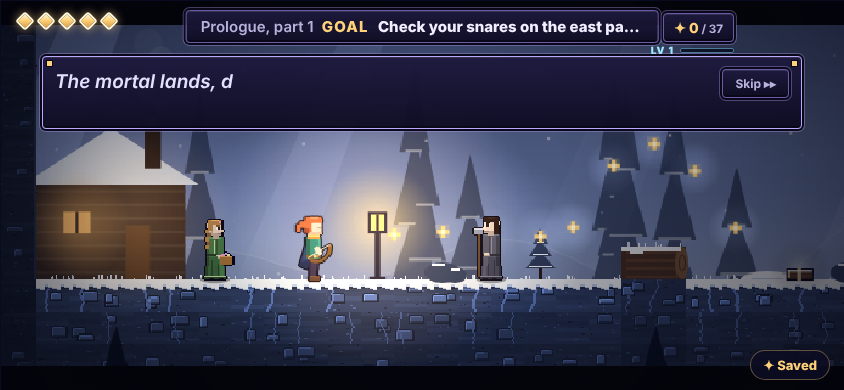
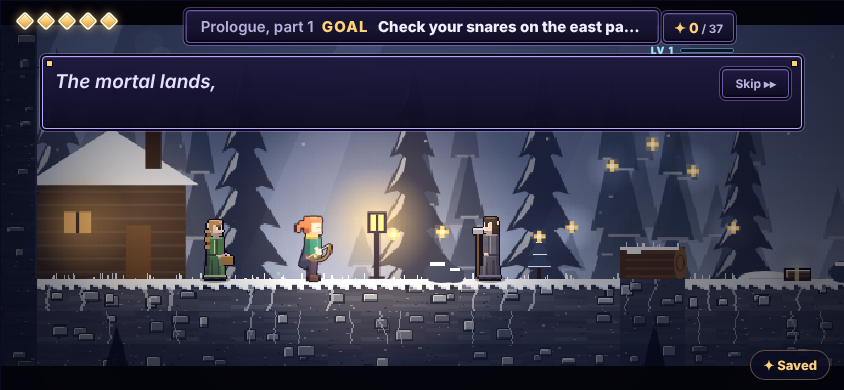
Starhaven Reimagined 11: atmospheric depth, hue-shifted ramps, form light
Backdrops gain two more depths with sky-coloured haze between layers and a
detailed near layer per theme. The shared shade function now shifts hue
(cool shadows, warm highlights). Wren and the cast get form lighting; the
ground is a step quieter than the characters.

Claude-Session: https://claude.ai/code/session_01PwDoV4SgoNJ5FnbkB1YJ2V

diff --git a/starhaven/game/starhaven.html b/starhaven/game/starhaven.html
@@ -4098,10 +4098,15 @@ h2 { letter-spacing: .12em; text-transform: uppercase; }
   const W = 32, H = 60, FX = 16, FY = 56;   // sheet cell; feet at (FX, FY)
   const cache = {};
   function canvas(w, h) { const c = document.createElement('canvas'); c.width = w; c.height = h; return c; }
+  // A hue-shifted ramp, as pixel artists build them: shadows are pulled toward a cool violet, highlights toward a
+  // warm cream, so a colour never just gets "more black" or "more white".
   function shade(hex, f) {
     const n = parseInt(hex.slice(1), 16); let r = n >> 16, g = n >> 8 & 255, b = n & 255;
-    r = Math.max(0, Math.min(255, Math.round(r * f))); g = Math.max(0, Math.min(255, Math.round(g * f))); b = Math.max(0, Math.min(255, Math.round(b * f)));
-    return '#' + ((1 << 24) | (r << 16) | (g << 8) | b).toString(16).slice(1);
+    r *= f; g *= f; b *= f;
+    if (f < 1) { const k = Math.min(0.5, (1 - f) * 0.55); r += (38 - r) * k; g += (30 - g) * k; b += (96 - b) * k; }
+    else if (f > 1) { const k = Math.min(0.45, (f - 1) * 0.5); r += (255 - r) * k; g += (238 - g) * k; b += (196 - b) * k; }
+    const c = v => Math.max(0, Math.min(255, Math.round(v)));
+    return '#' + ((1 << 24) | (c(r) << 16) | (c(g) << 8) | c(b)).toString(16).slice(1);
   }
   SH.shade = shade;
 
@@ -4199,6 +4204,9 @@ h2 { letter-spacing: .12em; text-transform: uppercase; }
     const L = LOOKS[id]; if (!L) return null;
     const c = canvas(W * 3, H), g = c.getContext('2d');
     for (let f = 0; f < 3; f++) { g.save(); g.translate(f * W, 0); drawBody(g, L, f); g.restore(); }
+    g.globalCompositeOperation = 'source-atop';
+    const lg = g.createLinearGradient(0, 4, 0, H); lg.addColorStop(0, 'rgba(255,240,205,0.20)'); lg.addColorStop(0.45, 'rgba(255,240,205,0)'); lg.addColorStop(1, 'rgba(24,16,70,0.30)'); g.fillStyle = lg; g.fillRect(0, 0, c.width, H);
+    g.globalCompositeOperation = 'source-over';
     outline(c, '#0a0818');
     return (cache[id] = c);
   }
@@ -4918,6 +4926,12 @@ h2 { letter-spacing: .12em; text-transform: uppercase; }
     if (name === 'cast') o.hand = fireHand(5);
     if (name === 'charge') o.hand = fireHand(3 + Math.min(6, p.chargeT / 6));
     figure(g, p, S, o);
+    if (!gh) {   // form light over the whole figure: warm from above, cool shadow toward her feet, a rim on her leading edge
+      g.setTransform(1, 0, 0, 1, 0, 0); g.globalCompositeOperation = 'source-atop';
+      const lg = g.createLinearGradient(0, OY - 46, 0, OY); lg.addColorStop(0, 'rgba(255,240,205,0.22)'); lg.addColorStop(0.5, 'rgba(255,240,205,0)'); lg.addColorStop(1, 'rgba(24,16,70,0.30)'); g.fillStyle = lg; g.fillRect(0, 0, cv.width, cv.height);
+      const rg = g.createLinearGradient(OX - 2, 0, OX + 12, 0); rg.addColorStop(0, 'rgba(200,214,255,0)'); rg.addColorStop(1, 'rgba(200,214,255,0.16)'); g.fillStyle = rg; g.fillRect(0, 0, cv.width, cv.height);
+      g.globalCompositeOperation = 'source-over';
+    }
 
     const m = mask.getContext('2d');
     m.globalCompositeOperation = 'source-over'; m.clearRect(0, 0, mask.width, mask.height); m.drawImage(cv, 0, 0);
@@ -5106,8 +5120,35 @@ h2 { letter-spacing: .12em; text-transform: uppercase; }
     g.fillStyle = gr; g.fillRect(0, 0, 16, 360);
     out.sky = s;
     out.far = T.far === 'cave' ? makeCave(T) : makeMountains(T);
+    out.near = makeNear(T, name);
     out.mid = T.mid === 'roots' ? makeRoots(T) : T.mid === 'spires' ? makeSpires(T) : T.mid === 'pines' ? makePines(T) : makeTrees(T);
     return out;
+  }
+  // The nearest background layer: things with real detail, just behind where Wren walks.
+  function makeNear(T, name) {
+    if (name === 'city') return null;
+    const w = 1100, h = 300, c = canvas(w, h), g = c.getContext('2d'), r = rng(name.length * 13 + 5);
+    const dark = SH.shade(T.midC, 0.75), lite = SH.shade(T.midC, 1.5);
+    for (let i = 0; i < 9; i++) {
+      const x = 50 + i * 122 + r() * 46;
+      if (name === 'deep') {   // pillars of rock with a lit edge, and roots hanging between them
+        const pw = 16 + r() * 14, top = 30 + r() * 60;
+        g.fillStyle = dark; g.fillRect(x, top, pw, h - top); g.beginPath(); g.moveTo(x - 6, h); g.lineTo(x + 2, top + 30); g.lineTo(x + pw - 2, top + 30); g.lineTo(x + pw + 8, h); g.fill();
+        g.fillStyle = lite; g.fillRect(x, top, 2, h - top); for (let k = 0; k < 6; k++) g.fillRect(x + 3 + r() * (pw - 6), top + 10 + r() * 200, 2, 1);
+        g.strokeStyle = dark; g.lineWidth = 2; g.beginPath(); g.moveTo(x + pw, 0); g.quadraticCurveTo(x + pw + 40, 70 + r() * 40, x + 122, 0); g.stroke();
+      } else if (name === 'thornwood') {   // twisted trunks with thorned branches
+        g.strokeStyle = dark; g.lineCap = 'round'; g.lineWidth = 9; g.beginPath(); g.moveTo(x, h); g.quadraticCurveTo(x + 14, h - 90, x - 6, h - 170); g.stroke();
+        for (let k = 0; k < 4; k++) { const by = h - 70 - k * 30, dir = k % 2 ? 1 : -1; g.lineWidth = 4; g.beginPath(); g.moveTo(x + 4, by); g.quadraticCurveTo(x + dir * 30, by - 20, x + dir * 52, by - 8 - r() * 20); g.stroke(); g.fillStyle = dark; for (let q = 0; q < 3; q++) { const tx = x + dir * (16 + q * 12), ty = by - 12 - q * 2; g.beginPath(); g.moveTo(tx - 2, ty); g.lineTo(tx, ty - 7); g.lineTo(tx + 2, ty); g.fill(); } }
+        g.strokeStyle = lite; g.lineWidth = 1; g.beginPath(); g.moveTo(x - 3, h); g.quadraticCurveTo(x + 10, h - 90, x - 9, h - 168); g.stroke();
+      } else {   // pines with a trunk, tiers of boughs, and snow or moonlight on each tier
+        const th = 150 + r() * 90, base = h;
+        g.fillStyle = SH.shade(T.midC, 0.6); g.fillRect(x - 3, base - th * 0.3, 6, th * 0.3);
+        for (let k = 0; k < 6; k++) { const ty = base - th * 0.22 - k * th * 0.13, tw = (34 - k * 4.6) * (th / 200);
+          g.fillStyle = dark; g.beginPath(); g.moveTo(x, ty - th * 0.2); g.lineTo(x - tw, ty); g.lineTo(x - tw * 0.55, ty - 3); g.lineTo(x, ty + 4); g.lineTo(x + tw * 0.55, ty - 3); g.lineTo(x + tw, ty); g.fill();
+          g.fillStyle = T.snow ? 'rgba(255,255,255,0.6)' : lite; g.beginPath(); g.moveTo(x, ty - th * 0.2); g.lineTo(x - tw * 0.8, ty - 3); g.lineTo(x - tw * 0.3, ty - th * 0.08); g.fill(); }
+      }
+    }
+    return c;
   }
   function makeStars() {
     const r = rng(7), out = [];
@@ -5222,7 +5263,7 @@ h2 { letter-spacing: .12em; text-transform: uppercase; }
   THEMES.winter.gstyle = 'earth'; THEMES.dusk.gstyle = 'earth'; THEMES.thornwood.gstyle = 'earth'; THEMES.deep.gstyle = 'rock'; THEMES.mountain.gstyle = 'strata'; THEMES.city.gstyle = 'brick';
   function groundTile(g, T, style, x, y, tx, ty, depth, TS) {
     const H = (a, b) => { let h = (tx * 73856093) ^ (ty * 19349663) ^ (a * 83492791) ^ ((b || 0) * 2654435761); h = (h ^ (h >>> 13)) * 1274126177; return ((h ^ (h >>> 16)) >>> 0) / 4294967296; };
-    const lift = [1.9, 1.5, 1.25, 1.1, 1][depth], base = SH.shade(T.speck, lift);
+    const lift = [1.42, 1.24, 1.12, 1.05, 1][depth], base = SH.shade(T.speck, lift);   // the ground stays a step quieter than the people on it
     if (style === 'brick') {   // two courses a tile, joints staggered, each stone lit top-left and dark bottom-right
       for (let row = 0; row < 2; row++) {
         const by = y + row * 12, off = ((ty * 2 + row) % 2) * 12 + ((tx * 7 + ty * 3) % 3) * 2;
@@ -5487,8 +5528,16 @@ h2 { letter-spacing: .12em; text-transform: uppercase; }
       ctx.globalAlpha = alpha;
     }
     if (w.room.def.cityGlowX != null) drawCity(ctx, w, vw, cx, cy);
+    // Depth by air: each layer further away loses contrast and takes the colour of the sky; nearer layers are
+    // darker, sharper and more detailed, and slide faster. (Atmospheric perspective + detail gradient + parallax.)
+    const haze = (a, y0) => { const hg = ctx.createLinearGradient(0, y0, 0, VH); hg.addColorStop(0, 'rgba(0,0,0,0)'); hg.addColorStop(0.55, T.sky[2]); hg.addColorStop(1, T.sky[3]); ctx.globalAlpha = alpha * a; ctx.fillStyle = hg; ctx.fillRect(0, 0, vw, VH); ctx.globalAlpha = alpha; };
     tile(ctx, L.far, cx * 0.12, 10 - cy * 0.08, vw);
-    ctx.globalAlpha = alpha * 0.85; tile(ctx, L.mid, cx * 0.38, 30 - cy * 0.3, vw); ctx.globalAlpha = alpha;
+    haze(0.5, 40);
+    ctx.globalAlpha = alpha * 0.6; tile(ctx, L.mid, cx * 0.2 + 370, 6 - cy * 0.16, vw); ctx.globalAlpha = alpha;   // the same wood again, further off
+    haze(0.42, 90);
+    ctx.globalAlpha = alpha * 0.9; tile(ctx, L.mid, cx * 0.38, 30 - cy * 0.3, vw); ctx.globalAlpha = alpha;
+    haze(0.2, 150);
+    if (L.near) tile(ctx, L.near, cx * 0.62, 78 - cy * 0.55, vw);
     const mist = ctx.createLinearGradient(0, 180 - cy * 0.3, 0, VH);
     mist.addColorStop(0, 'rgba(0,0,0,0)'); mist.addColorStop(1, T.mist);
     ctx.fillStyle = mist; ctx.fillRect(0, 0, vw, VH);

diff --git a/starhaven/game/src/draw.js b/starhaven/game/src/draw.js
@@ -127,8 +127,35 @@
     g.fillStyle = gr; g.fillRect(0, 0, 16, 360);
     out.sky = s;
     out.far = T.far === 'cave' ? makeCave(T) : makeMountains(T);
+    out.near = makeNear(T, name);
     out.mid = T.mid === 'roots' ? makeRoots(T) : T.mid === 'spires' ? makeSpires(T) : T.mid === 'pines' ? makePines(T) : makeTrees(T);
     return out;
+  }
+  // The nearest background layer: things with real detail, just behind where Wren walks.
+  function makeNear(T, name) {
+    if (name === 'city') return null;
+    const w = 1100, h = 300, c = canvas(w, h), g = c.getContext('2d'), r = rng(name.length * 13 + 5);
+    const dark = SH.shade(T.midC, 0.75), lite = SH.shade(T.midC, 1.5);
+    for (let i = 0; i < 9; i++) {
+      const x = 50 + i * 122 + r() * 46;
+      if (name === 'deep') {   // pillars of rock with a lit edge, and roots hanging between them
+        const pw = 16 + r() * 14, top = 30 + r() * 60;
+        g.fillStyle = dark; g.fillRect(x, top, pw, h - top); g.beginPath(); g.moveTo(x - 6, h); g.lineTo(x + 2, top + 30); g.lineTo(x + pw - 2, top + 30); g.lineTo(x + pw + 8, h); g.fill();
+        g.fillStyle = lite; g.fillRect(x, top, 2, h - top); for (let k = 0; k < 6; k++) g.fillRect(x + 3 + r() * (pw - 6), top + 10 + r() * 200, 2, 1);
+        g.strokeStyle = dark; g.lineWidth = 2; g.beginPath(); g.moveTo(x + pw, 0); g.quadraticCurveTo(x + pw + 40, 70 + r() * 40, x + 122, 0); g.stroke();
+      } else if (name === 'thornwood') {   // twisted trunks with thorned branches
+        g.strokeStyle = dark; g.lineCap = 'round'; g.lineWidth = 9; g.beginPath(); g.moveTo(x, h); g.quadraticCurveTo(x + 14, h - 90, x - 6, h - 170); g.stroke();
+        for (let k = 0; k < 4; k++) { const by = h - 70 - k * 30, dir = k % 2 ? 1 : -1; g.lineWidth = 4; g.beginPath(); g.moveTo(x + 4, by); g.quadraticCurveTo(x + dir * 30, by - 20, x + dir * 52, by - 8 - r() * 20); g.stroke(); g.fillStyle = dark; for (let q = 0; q < 3; q++) { const tx = x + dir * (16 + q * 12), ty = by - 12 - q * 2; g.beginPath(); g.moveTo(tx - 2, ty); g.lineTo(tx, ty - 7); g.lineTo(tx + 2, ty); g.fill(); } }
+        g.strokeStyle = lite; g.lineWidth = 1; g.beginPath(); g.moveTo(x - 3, h); g.quadraticCurveTo(x + 10, h - 90, x - 9, h - 168); g.stroke();
+      } else {   // pines with a trunk, tiers of boughs, and snow or moonlight on each tier
+        const th = 150 + r() * 90, base = h;
+        g.fillStyle = SH.shade(T.midC, 0.6); g.fillRect(x - 3, base - th * 0.3, 6, th * 0.3);
+        for (let k = 0; k < 6; k++) { const ty = base - th * 0.22 - k * th * 0.13, tw = (34 - k * 4.6) * (th / 200);
+          g.fillStyle = dark; g.beginPath(); g.moveTo(x, ty - th * 0.2); g.lineTo(x - tw, ty); g.lineTo(x - tw * 0.55, ty - 3); g.lineTo(x, ty + 4); g.lineTo(x + tw * 0.55, ty - 3); g.lineTo(x + tw, ty); g.fill();
+          g.fillStyle = T.snow ? 'rgba(255,255,255,0.6)' : lite; g.beginPath(); g.moveTo(x, ty - th * 0.2); g.lineTo(x - tw * 0.8, ty - 3); g.lineTo(x - tw * 0.3, ty - th * 0.08); g.fill(); }
+      }
+    }
+    return c;
   }
   function makeStars() {
     const r = rng(7), out = [];
@@ -243,7 +270,7 @@
   THEMES.winter.gstyle = 'earth'; THEMES.dusk.gstyle = 'earth'; THEMES.thornwood.gstyle = 'earth'; THEMES.deep.gstyle = 'rock'; THEMES.mountain.gstyle = 'strata'; THEMES.city.gstyle = 'brick';
   function groundTile(g, T, style, x, y, tx, ty, depth, TS) {
     const H = (a, b) => { let h = (tx * 73856093) ^ (ty * 19349663) ^ (a * 83492791) ^ ((b || 0) * 2654435761); h = (h ^ (h >>> 13)) * 1274126177; return ((h ^ (h >>> 16)) >>> 0) / 4294967296; };
-    const lift = [1.9, 1.5, 1.25, 1.1, 1][depth], base = SH.shade(T.speck, lift);
+    const lift = [1.42, 1.24, 1.12, 1.05, 1][depth], base = SH.shade(T.speck, lift);   // the ground stays a step quieter than the people on it
     if (style === 'brick') {   // two courses a tile, joints staggered, each stone lit top-left and dark bottom-right
       for (let row = 0; row < 2; row++) {
         const by = y + row * 12, off = ((ty * 2 + row) % 2) * 12 + ((tx * 7 + ty * 3) % 3) * 2;
@@ -508,8 +535,16 @@
       ctx.globalAlpha = alpha;
     }
     if (w.room.def.cityGlowX != null) drawCity(ctx, w, vw, cx, cy);
+    // Depth by air: each layer further away loses contrast and takes the colour of the sky; nearer layers are
+    // darker, sharper and more detailed, and slide faster. (Atmospheric perspective + detail gradient + parallax.)
+    const haze = (a, y0) => { const hg = ctx.createLinearGradient(0, y0, 0, VH); hg.addColorStop(0, 'rgba(0,0,0,0)'); hg.addColorStop(0.55, T.sky[2]); hg.addColorStop(1, T.sky[3]); ctx.globalAlpha = alpha * a; ctx.fillStyle = hg; ctx.fillRect(0, 0, vw, VH); ctx.globalAlpha = alpha; };
     tile(ctx, L.far, cx * 0.12, 10 - cy * 0.08, vw);
-    ctx.globalAlpha = alpha * 0.85; tile(ctx, L.mid, cx * 0.38, 30 - cy * 0.3, vw); ctx.globalAlpha = alpha;
+    haze(0.5, 40);
+    ctx.globalAlpha = alpha * 0.6; tile(ctx, L.mid, cx * 0.2 + 370, 6 - cy * 0.16, vw); ctx.globalAlpha = alpha;   // the same wood again, further off
+    haze(0.42, 90);
+    ctx.globalAlpha = alpha * 0.9; tile(ctx, L.mid, cx * 0.38, 30 - cy * 0.3, vw); ctx.globalAlpha = alpha;
+    haze(0.2, 150);
+    if (L.near) tile(ctx, L.near, cx * 0.62, 78 - cy * 0.55, vw);
     const mist = ctx.createLinearGradient(0, 180 - cy * 0.3, 0, VH);
     mist.addColorStop(0, 'rgba(0,0,0,0)'); mist.addColorStop(1, T.mist);
     ctx.fillStyle = mist; ctx.fillRect(0, 0, vw, VH);

diff --git a/starhaven/game/src/people.js b/starhaven/game/src/people.js
@@ -5,10 +5,15 @@
   const W = 32, H = 60, FX = 16, FY = 56;   // sheet cell; feet at (FX, FY)
   const cache = {};
   function canvas(w, h) { const c = document.createElement('canvas'); c.width = w; c.height = h; return c; }
+  // A hue-shifted ramp, as pixel artists build them: shadows are pulled toward a cool violet, highlights toward a
+  // warm cream, so a colour never just gets "more black" or "more white".
   function shade(hex, f) {
     const n = parseInt(hex.slice(1), 16); let r = n >> 16, g = n >> 8 & 255, b = n & 255;
-    r = Math.max(0, Math.min(255, Math.round(r * f))); g = Math.max(0, Math.min(255, Math.round(g * f))); b = Math.max(0, Math.min(255, Math.round(b * f)));
-    return '#' + ((1 << 24) | (r << 16) | (g << 8) | b).toString(16).slice(1);
+    r *= f; g *= f; b *= f;
+    if (f < 1) { const k = Math.min(0.5, (1 - f) * 0.55); r += (38 - r) * k; g += (30 - g) * k; b += (96 - b) * k; }
+    else if (f > 1) { const k = Math.min(0.45, (f - 1) * 0.5); r += (255 - r) * k; g += (238 - g) * k; b += (196 - b) * k; }
+    const c = v => Math.max(0, Math.min(255, Math.round(v)));
+    return '#' + ((1 << 24) | (c(r) << 16) | (c(g) << 8) | c(b)).toString(16).slice(1);
   }
   SH.shade = shade;
 
@@ -106,6 +111,9 @@
     const L = LOOKS[id]; if (!L) return null;
     const c = canvas(W * 3, H), g = c.getContext('2d');
     for (let f = 0; f < 3; f++) { g.save(); g.translate(f * W, 0); drawBody(g, L, f); g.restore(); }
+    g.globalCompositeOperation = 'source-atop';
+    const lg = g.createLinearGradient(0, 4, 0, H); lg.addColorStop(0, 'rgba(255,240,205,0.20)'); lg.addColorStop(0.45, 'rgba(255,240,205,0)'); lg.addColorStop(1, 'rgba(24,16,70,0.30)'); g.fillStyle = lg; g.fillRect(0, 0, c.width, H);
+    g.globalCompositeOperation = 'source-over';
     outline(c, '#0a0818');
     return (cache[id] = c);
   }

diff --git a/starhaven/game/src/wren.js b/starhaven/game/src/wren.js
@@ -174,6 +174,12 @@
     if (name === 'cast') o.hand = fireHand(5);
     if (name === 'charge') o.hand = fireHand(3 + Math.min(6, p.chargeT / 6));
     figure(g, p, S, o);
+    if (!gh) {   // form light over the whole figure: warm from above, cool shadow toward her feet, a rim on her leading edge
+      g.setTransform(1, 0, 0, 1, 0, 0); g.globalCompositeOperation = 'source-atop';
+      const lg = g.createLinearGradient(0, OY - 46, 0, OY); lg.addColorStop(0, 'rgba(255,240,205,0.22)'); lg.addColorStop(0.5, 'rgba(255,240,205,0)'); lg.addColorStop(1, 'rgba(24,16,70,0.30)'); g.fillStyle = lg; g.fillRect(0, 0, cv.width, cv.height);
+      const rg = g.createLinearGradient(OX - 2, 0, OX + 12, 0); rg.addColorStop(0, 'rgba(200,214,255,0)'); rg.addColorStop(1, 'rgba(200,214,255,0.16)'); g.fillStyle = rg; g.fillRect(0, 0, cv.width, cv.height);
+      g.globalCompositeOperation = 'source-over';
+    }
 
     const m = mask.getContext('2d');
     m.globalCompositeOperation = 'source-over'; m.clearRect(0, 0, mask.width, mask.height); m.drawImage(cv, 0, 0);

diff --git a/starhaven/CHANGELOG.md b/starhaven/CHANGELOG.md
@@ -1,5 +1,43 @@
 # Starhaven — Changelog
 
+## Reimagined 11 — graphics, from research (Nov 18, 2026)
+Will: the graphics need serious work; do some research and refinement.
+
+**What the research said** (pixel-art and 2D-depth guides; links at the end):
+1. Depth needs at least three of four things working together: things in front hiding things behind, air between
+   layers (far things lose contrast and take the sky's colour), a detail gradient (near things detailed, far things
+   plain), and parallax. Parallax alone "may not be convincing if your scene doesn't already convey depth when static".
+2. Colour ramps should shift hue as well as brightness: shadows cooler, highlights warmer.
+3. Characters read by silhouette and by contrast against a quieter world; shade them with a three or four step ramp.
+
+**What Starhaven was doing wrong:** it had parallax and little else. The far mountains and the trees were the same
+flat darkness with no air between them, nothing in the background had detail, every shadow in the game was just the
+same colour multiplied darker, and the ground was nearly as bright as the people standing on it.
+
+**What changed**
+- **Air between the layers.** Behind every level there are now five depths instead of two: the far ridge, a distant
+  wood, the wood, a detailed near layer, then the level. A haze in the sky's own colour sits between each pair, so
+  each one further away is paler and bluer.
+- **A detail gradient.** The new near layer is the only background layer with real drawing in it: pines with trunks,
+  tiers of boughs and snow on each tier; twisted, thorned trunks in the thornwood; lit rock pillars and hanging roots
+  Under the Mountain.
+- **Hue-shifted colour everywhere.** The one function that makes a colour darker or lighter now also pulls shadows
+  toward cool violet and highlights toward warm cream. The whole cast, the stonework and the ground changed with it.
+- **Form light on characters.** Wren and every person are lit warm from above and shaded cool toward their feet, and
+  Wren has a pale rim on her leading edge.
+- **A quieter ground.** The surface stones are a step darker, so the people on them are the brightest things again.
+
+**Honest notes.** This is light, colour and layering applied to the art that exists. It is not new drawings: Wren's
+figure and the wyrms have the same shapes as before. Tests: 50 play checks, 19 menu checks, the fuzz run, the
+screenshot run. **Not played by hand or on a phone.**
+
+Sources: [Return devlog, creating visual depth in a 2D pixel world](https://jesseeisenbart.itch.io/return-alpha/devlog/384936/return-devlog-02-creating-visual-depth-in-a-2d-pixel-world) ·
+[Pixel art scene depth composition tricks](https://freegamesprites.com/de/news/pixel-art-scene-depth-composition-tricks) ·
+[Slynyrd Pixelblog 23, parallax scrolling](https://www.slynyrd.com/blog/2019/11/12/pixelblog-23-parallax-scrolling) ·
+[Slynyrd Pixelblog 1, colour palettes](https://www.slynyrd.com/blog/2018/1/10/pixelblog-1-color-palettes) ·
+[Pixel Parmesan, anti-aliasing fundamentals](https://pixelparmesan.com/anti-aliasing-fundamentals-for-pixel-artists) ·
+[How to paint in the Hollow Knight style](https://cypaint.com/article/how-to-paint-in-the-hollow-knight-style)
+
 ## Reimagined 10 — Chapter 2 filled out, and a full retest (Nov 18, 2026)
 Will: make the current slice more content rich and developed, and retest for bugs.
 
